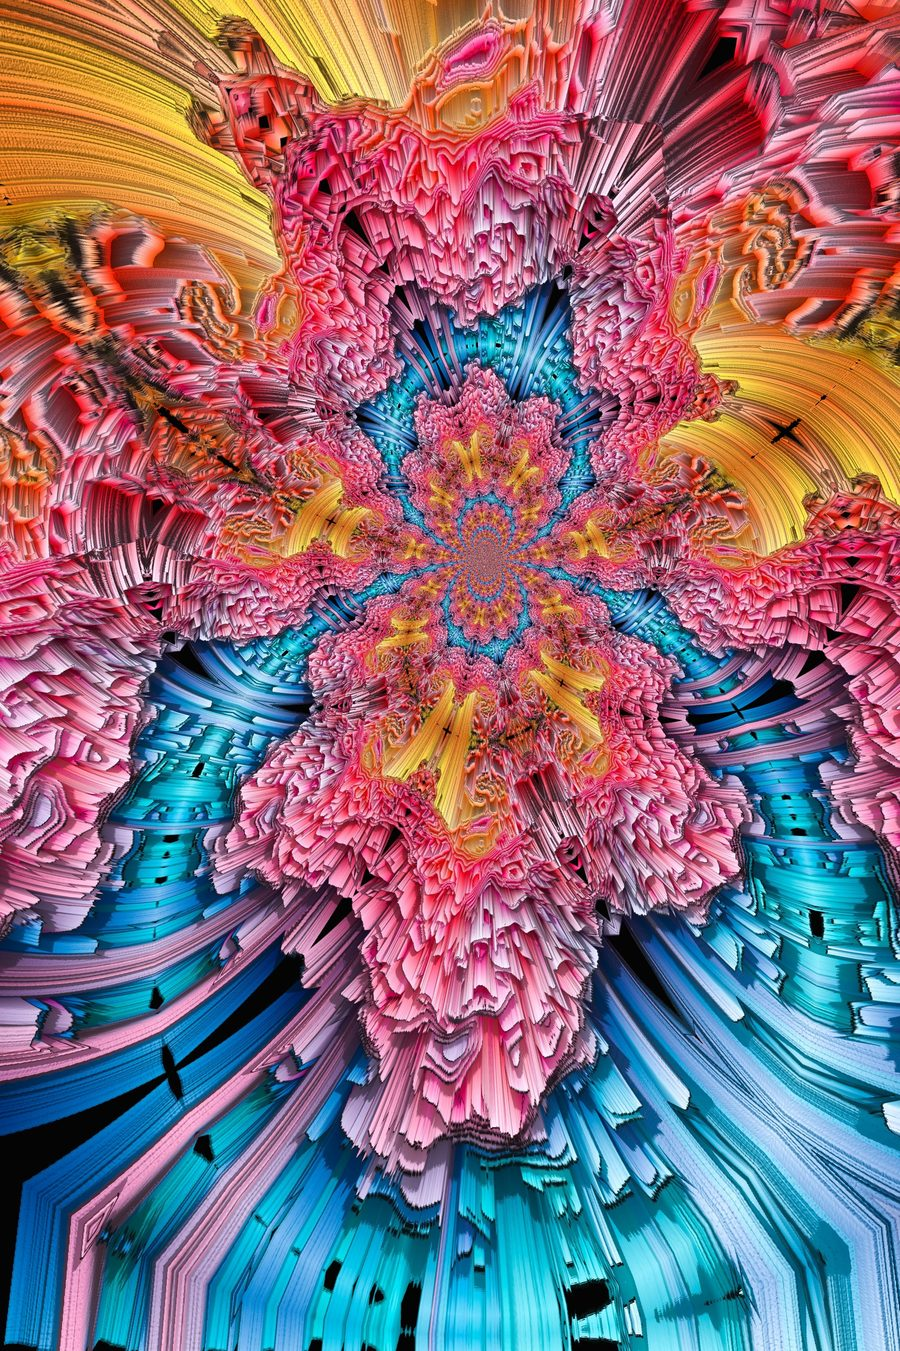
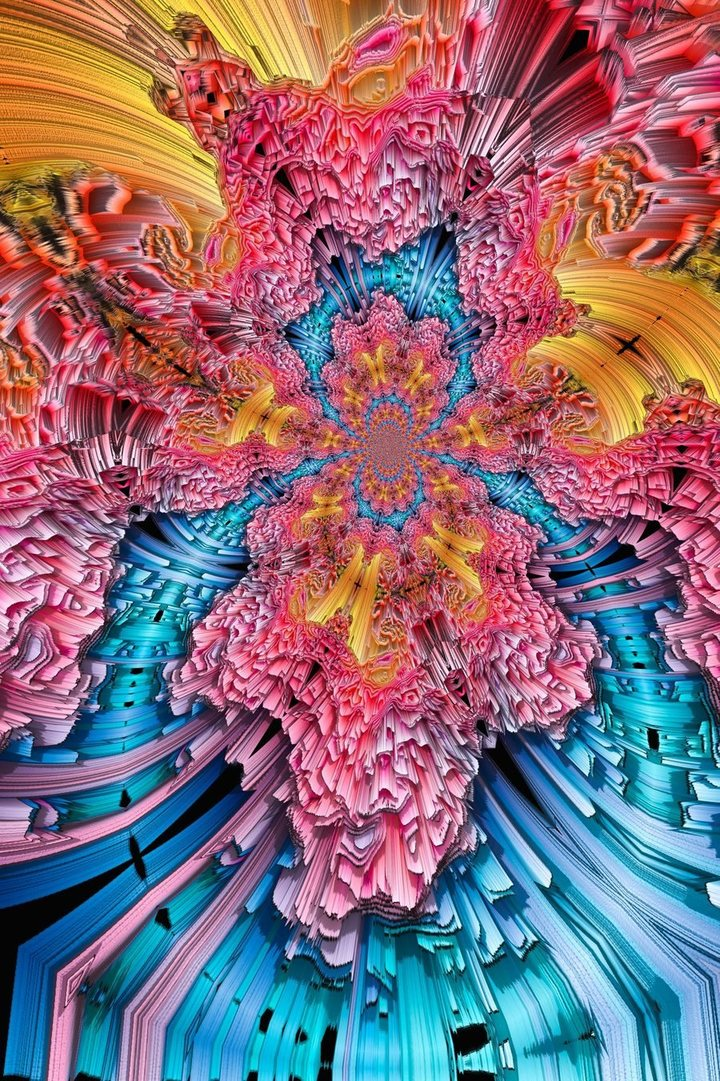
Speed up the page: lighter images, no blur on large panels (#85)
Images (about 7 MB -> 1.1 MB, all still at 2-3x their displayed size):
- Temporal context thumbnail: 4.4 MB PNG -> 186 KB JPEG at 900px wide
- Neuron background: 1.2 MB PNG -> 260 KB JPEG at full 1609px resolution
- Sleep, HippoCamera, humour and High Mind thumbnails resized to
  720-900px wide and re-encoded (431/154/199/426 KB -> 94/73/64/288 KB)

Rendering: the hero and section panels no longer use backdrop-filter,
which forced the browser to re-blur the fixed background behind every
panel on each scroll frame. Their fill is slightly more opaque instead
(0.55 -> 0.74), which looks the same. The header pill and the menu
drawer keep their blur.

Also removed the unused Roboto Condensed font request and the no-cache
meta tags that forced the HTML to re-download on every visit.

Claude-Session: https://claude.ai/code/session_01ViVhC9XZovd2aZUZVgTaEB

diff --git a/lab.html b/lab.html
@@ -10,14 +10,10 @@ permalink: /lab.html
   <meta http-equiv="X-UA-Compatible" content="IE=edge">
   <meta name="viewport" content="width=device-width, initial-scale=1.0">
   <meta name="robots" content="noindex, nofollow">
-  <meta http-equiv="Cache-Control" content="no-cache, no-store, must-revalidate">
-  <meta http-equiv="Pragma" content="no-cache">
-  <meta http-equiv="Expires" content="0">
   <title>Darin Lei &mdash; Lab</title>
 
   <link rel="preconnect" href="https://fonts.googleapis.com">
   <link rel="preconnect" href="https://fonts.gstatic.com" crossorigin>
-  <link href="https://fonts.googleapis.com/css2?family=Roboto+Condensed:ital,wght@0,100..900;1,100..900&display=swap" rel="stylesheet">
   <link href="https://fonts.cdnfonts.com/css/aileron" rel="stylesheet">
 
   <link rel="icon" href="favicon.ico?v={{ site.time | date: '%s' }}" sizes="any">
@@ -139,7 +135,7 @@ permalink: /lab.html
             </span>
           </a>
           <div class="filmstrip">
-            <img src="assets/img/retrieved-context-thumbnail.png" alt="">
+            <img src="assets/img/retrieved-context-thumbnail.jpg" alt="">
             <img src="assets/img/placeholders/fig-1.svg" alt="">
             <img src="assets/img/placeholders/fig-2.svg" alt="">
             <img src="assets/img/placeholders/fig-3.svg" alt="">
@@ -220,7 +216,7 @@ permalink: /lab.html
       <h2>Ongoing Projects</h2>
       <div class="project-grid">
         <article class="project-card" style="--card-accent: #9ba8e8;">
-          <img class="photo" src="assets/img/retrieved-context-thumbnail.png" alt="3D rendered brain wrapped in a wireframe mesh">
+          <img class="photo" src="assets/img/retrieved-context-thumbnail.jpg" alt="3D rendered brain wrapped in a wireframe mesh">
           <div class="project-card-body">
             <p class="project-kicker">Thesis: Behavioural and Intracranial Study</p>
             <h3>Determining the mechanisms of temporal context recovery in autobiographical memory</h3>

diff --git a/index.html b/index.html
@@ -9,14 +9,10 @@ permalink: /
   <meta charset="utf-8">
   <meta http-equiv="X-UA-Compatible" content="IE=edge">
   <meta name="viewport" content="width=device-width, initial-scale=1.0">
-  <meta http-equiv="Cache-Control" content="no-cache, no-store, must-revalidate">
-  <meta http-equiv="Pragma" content="no-cache">
-  <meta http-equiv="Expires" content="0">
   <title>Darin Lei</title>
 
   <link rel="preconnect" href="https://fonts.googleapis.com">
   <link rel="preconnect" href="https://fonts.gstatic.com" crossorigin>
-  <link href="https://fonts.googleapis.com/css2?family=Roboto+Condensed:ital,wght@0,100..900;1,100..900&display=swap" rel="stylesheet">
   <link href="https://fonts.cdnfonts.com/css/aileron" rel="stylesheet">
 
   <link rel="icon" href="favicon.ico?v={{ site.time | date: '%s' }}" sizes="any">
@@ -127,7 +123,7 @@ permalink: /
       <h2>Ongoing Projects</h2>
       <div class="project-grid">
         <article class="project-card" style="--card-accent: #9ba8e8;">
-          <img class="photo" src="assets/img/retrieved-context-thumbnail.png" alt="3D rendered brain wrapped in a wireframe mesh">
+          <img class="photo" src="assets/img/retrieved-context-thumbnail.jpg" alt="3D rendered brain wrapped in a wireframe mesh">
           <div class="project-card-body">
             <p class="project-kicker">Thesis: Behavioural and Intracranial Study</p>
             <h3>Determining the mechanisms of temporal context recovery in autobiographical memory</h3>

diff --git a/assets/css/onepage.css b/assets/css/onepage.css
@@ -3,7 +3,7 @@
   --text-muted: #aab4c4;
   --accent: #9ba8e8;
   --accent-strong: #5a6bc4;
-  --panel-bg: rgba(16, 20, 28, 0.55);
+  --panel-bg: rgba(16, 20, 28, 0.74);
   --panel-bg-strong: rgba(16, 20, 28, 0.72);
   --panel-border: rgba(255, 255, 255, 0.14);
   --panel-shadow: 0 25px 60px rgba(0, 0, 0, 0.55);
@@ -36,7 +36,7 @@ body {
   z-index: -1;
   background-image:
     linear-gradient(rgba(2, 4, 8, 0.55), rgba(2, 4, 8, 0.8)),
-    url("../img/neuron-background.png");
+    url("../img/neuron-background.jpg");
   background-size: cover;
   background-position: center;
   background-repeat: no-repeat;
@@ -318,8 +318,6 @@ section {
   border: 1px solid var(--panel-border);
   border-radius: 1.5rem;
   box-shadow: var(--panel-shadow);
-  backdrop-filter: blur(16px);
-  -webkit-backdrop-filter: blur(16px);
 }
 
 .section h2 {
@@ -341,8 +339,6 @@ main {
   border: 1px solid var(--panel-border);
   border-radius: 1.5rem;
   box-shadow: var(--panel-shadow);
-  backdrop-filter: blur(16px);
-  -webkit-backdrop-filter: blur(16px);
 }
 
 .hero-avatar {
